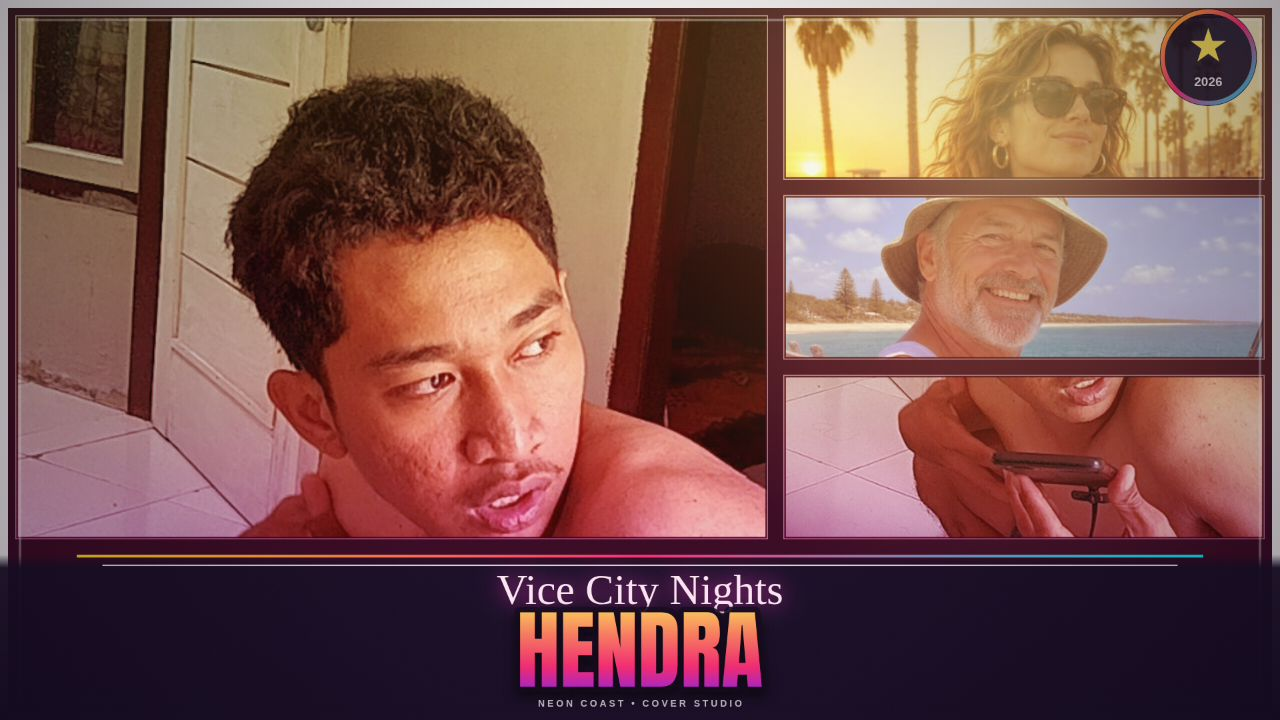
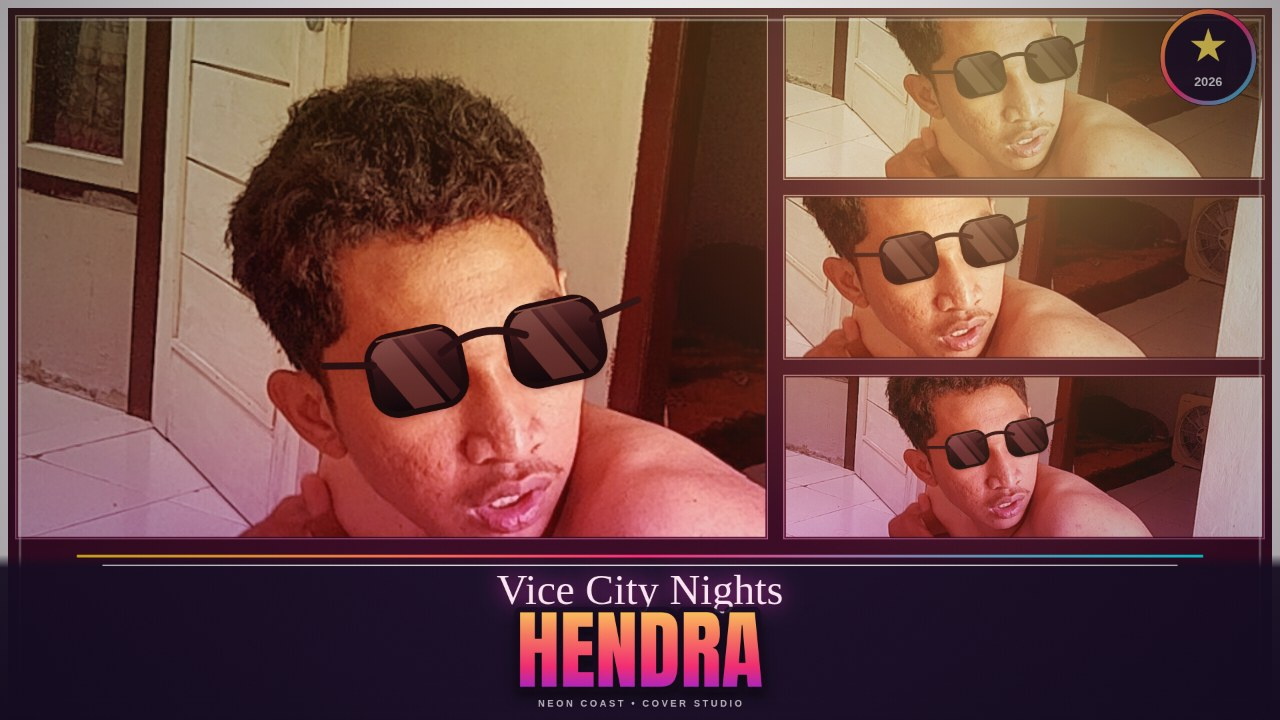
v2.1: all-Hendra panels, face-safe crops, sunglasses toggle
- Every panel is Hendra's portrait (one person, one story): the
  boulevard and pier samples no longer appear in any cover or
  screenshot; each slot has its own face-safe crop of hendra.jpg.
- Bottom strip re-cropped so his whole face shows (eyes, nose,
  mouth, chin) instead of a cut chin-and-phone close-up.
- Sunglasses: black shades drawn in the renderer from his measured
  eye points (right eye 352,1072; left eye 465,1048 in the 921x2048
  portrait), with gradient lenses, a diagonal shine, bridge bar and
  temple arms; a toggle in the editor (default ON for the Hendra
  sample) and a shades= query flag for shots. Only ever drawn on
  Hendra's own photo.
- Tilt panels re-cropped so the fanned overlap no longer slices his
  face, and the wide body crop no longer shows the photo's black
  letterbox bar.
- 4 new screenshots, all verified visually.

diff --git a/app/src/cover.js b/app/src/cover.js
@@ -11,6 +11,9 @@
 // shadows and a sun bloom, bigger title lettering with a hard sticker
 // shadow, a neon strip above the title band, bold panel keylines, and a
 // roundel badge — so the cover still reads at contact-sheet size.
+// v2.1: every panel is Hendra's portrait (one person, one story), each
+// with a face-safe crop, and the editor gains a sunglasses toggle that
+// draws black shades over his measured eye points.
 
 export const GRADES = {
   sunset: {
@@ -82,9 +85,11 @@ export const SIZES = [
 ];
 
 /**
- * A fresh default state: Hendra's portrait leads, the pier and boulevard
- * samples tell the story in the strips. The hero crop is tight on his
- * face and shoulders, so the cover reads as a character poster.
+ * A fresh default state: every panel is Hendra's portrait, each with its
+ * own crop, so the cover is one person, one story — no other faces. The
+ * hero crop is tight on his face and shoulders, so the cover reads as a
+ * character poster. `shades` draws black sunglasses over his eyes (see
+ * HENDRA_EYES below); it is on by default for the Hendra sample.
  */
 export function defaultState() {
   return {
@@ -92,12 +97,13 @@ export function defaultState() {
     grade: 'sunset',
     title: 'HENDRA',
     subtitle: 'Vice City Nights',
+    shades: true,
     photos: [], // HTMLImageElement[], filled by main.js
     panels: [
-      { photo: 0, zoom: 1.5, ox: 0.21, oy: 0.5 },
-      { photo: 2, zoom: 1, ox: 0, oy: -0.1 },
-      { photo: 1, zoom: 1.1, ox: 0, oy: 1.26 },
-      { photo: 0, zoom: 1.6, ox: 0.1, oy: -1.07 },
+      { photo: 0, zoom: 1.5, ox: 0.21, oy: 0.08 },
+      { photo: 0, zoom: 1.2, ox: 0.05, oy: -0.30 },
+      { photo: 0, zoom: 1.35, ox: -0.08, oy: -0.30 },
+      { photo: 0, zoom: 1.0, ox: 0, oy: -0.18 },
     ],
   };
 }
@@ -185,6 +191,125 @@ function drawPhotoInto(ctx, img, rect, zoom, ox, oy) {
   const cx = rect.x + rect.w / 2 + ox * rect.w;
   const cy = rect.y + rect.h / 2 + oy * rect.h;
   ctx.drawImage(img, cx - pw / 2, cy - ph / 2, pw, ph);
+}
+
+// Hendra's eyes in his portrait (app/samples/hendra.jpg, 921x2048),
+// measured on a 20px grid over the eye band: his right eye (352, 1072),
+// his left eye (465, 1048). The sunglasses are drawn from these points,
+// so they sit on the eyes in every panel crop; they are only ever drawn
+// on Hendra's own photo, never on another person's picture.
+const HENDRA_EYES = {
+  left: { x: 352 / 921, y: 1072 / 2048 },
+  right: { x: 465 / 921, y: 1048 / 2048 },
+};
+
+/** A rounded-rectangle path (no roundRect dependency). */
+function rrectPath(ctx, x, y, w, h, r) {
+  ctx.beginPath();
+  ctx.moveTo(x + r, y);
+  ctx.arcTo(x + w, y, x + w, y + h, r);
+  ctx.arcTo(x + w, y + h, x, y + h, r);
+  ctx.arcTo(x, y + h, x, y, r);
+  ctx.arcTo(x, y, x + w, y, r);
+  ctx.closePath();
+}
+
+/**
+ * Black sunglasses over Hendra's eyes, drawn in the panel's own
+ * coordinates (after the photo, before the grade wash, so the grade tints
+ * them like the rest of the poster). Geometry is in units of the distance
+ * between the eyes, so the glasses scale with any panel crop: two dark
+ * gradient lenses with a diagonal highlight, a bridge bar, and short
+ * temple arms toward the ears. Skipped when the eyes would be under 24px
+ * apart — too small to read as glasses.
+ */
+function drawShades(ctx, img, rect, zoom, ox, oy) {
+  const scale = Math.max(rect.w / img.naturalWidth, rect.h / img.naturalHeight) * zoom;
+  const pw = img.naturalWidth * scale;
+  const ph = img.naturalHeight * scale;
+  const at = (f) => ({
+    x: rect.x + rect.w / 2 + ox * rect.w + (f.x - 0.5) * pw,
+    y: rect.y + rect.h / 2 + oy * rect.h + (f.y - 0.5) * ph,
+  });
+  const L = at(HENDRA_EYES.left);
+  const R = at(HENDRA_EYES.right);
+  const dx = R.x - L.x;
+  const dy = R.y - L.y;
+  const D = Math.hypot(dx, dy);
+  if (D < 24) return;
+  const ang = Math.atan2(dy, dx);
+  const mx = (L.x + R.x) / 2;
+  const my = (L.y + R.y) / 2;
+  const lw = D * 0.66; // lens width
+  const lh = D * 0.56; // lens height
+  const lift = D * 0.05; // lenses sit a touch above the eye line
+
+  ctx.save();
+  ctx.translate(mx, my - lift);
+  ctx.rotate(ang);
+
+  const lens = (cx) => {
+    const x0 = cx - lw / 2;
+    const y0 = -lh / 2;
+    const r = lh * 0.32;
+    rrectPath(ctx, x0, y0, lw, lh, r);
+    const g = ctx.createLinearGradient(0, y0, 0, y0 + lh);
+    g.addColorStop(0, '#2b2b38');
+    g.addColorStop(0.45, '#0c0c14');
+    g.addColorStop(1, '#000005');
+    ctx.save();
+    ctx.shadowColor = 'rgba(0,0,0,0.4)';
+    ctx.shadowBlur = D * 0.05;
+    ctx.shadowOffsetY = D * 0.03;
+    ctx.fillStyle = g;
+    ctx.fill();
+    ctx.restore();
+    // Diagonal shine across the upper lens, clipped to its shape.
+    ctx.save();
+    rrectPath(ctx, x0, y0, lw, lh, r);
+    ctx.clip();
+    ctx.translate(cx, 0);
+    ctx.rotate(-0.5);
+    ctx.fillStyle = 'rgba(255,255,255,0.16)';
+    ctx.fillRect(-lw * 0.28, -lh * 1.2, lw * 0.30, lh * 2.4);
+    ctx.fillStyle = 'rgba(255,255,255,0.07)';
+    ctx.fillRect(lw * 0.08, -lh * 1.2, lw * 0.14, lh * 2.4);
+    ctx.restore();
+    // Dark frame around the lens, with a faint lit top edge.
+    rrectPath(ctx, x0, y0, lw, lh, r);
+    ctx.strokeStyle = '#05050a';
+    ctx.lineWidth = D * 0.045;
+    ctx.stroke();
+    ctx.beginPath();
+    ctx.moveTo(x0 + r * 0.5, y0 + ctx.lineWidth * 0.4);
+    ctx.lineTo(x0 + lw - r * 0.5, y0 + ctx.lineWidth * 0.4);
+    ctx.strokeStyle = 'rgba(255,255,255,0.28)';
+    ctx.lineWidth = D * 0.012;
+    ctx.stroke();
+  };
+
+  // Lenses first, then the bridge and temples over their inner edges.
+  lens(-D / 2);
+  lens(D / 2);
+  // Bridge: a bar arched slightly upward between the inner lens tops.
+  ctx.beginPath();
+  ctx.moveTo(-D / 2 + lw * 0.30, -lh * 0.16);
+  ctx.quadraticCurveTo(0, -lh * 0.46, D / 2 - lw * 0.30, -lh * 0.16);
+  ctx.strokeStyle = '#0a0a12';
+  ctx.lineWidth = D * 0.055;
+  ctx.lineCap = 'round';
+  ctx.stroke();
+  // Temples: short arms from the outer lens tops toward the ears.
+  ctx.beginPath();
+  ctx.moveTo(-D / 2 - lw / 2 + D * 0.04, -lh * 0.18);
+  ctx.lineTo(-D / 2 - lw / 2 - D * 0.30, -lh * 0.30);
+  ctx.moveTo(D / 2 + lw / 2 - D * 0.04, -lh * 0.18);
+  ctx.lineTo(D / 2 + lw / 2 + D * 0.30, -lh * 0.30);
+  ctx.strokeStyle = '#0a0a12';
+  ctx.lineWidth = D * 0.05;
+  ctx.lineCap = 'round';
+  ctx.stroke();
+  ctx.restore();
 }
 
 /** One grade overlay pass: a gradient fill under a composite mode. */
@@ -296,6 +421,12 @@ export function drawCover(canvas, state) {
       ctx.font = `600 ${Math.max(12, Math.round(r.w * 0.05))}px sans-serif`;
       ctx.textAlign = 'center';
       ctx.fillText('ADD A PHOTO', r.w / 2, r.h / 2);
+    }
+    // Sunglasses over Hendra's eyes, only on his own photo and only
+    // while the toggle is on; the grade wash below tints them with the
+    // rest of the poster.
+    if (img && state.shades !== false && img._photoName === 'hendra') {
+      drawShades(ctx, img, { x: 0, y: 0, w: r.w, h: r.h }, slot.zoom, slot.ox, slot.oy);
     }
     // Crisp comic-book keyline: a dark edge plus a thin white inner line,
     // so panels separate hard even under a strong grade.

diff --git a/app/src/main.js b/app/src/main.js
@@ -48,7 +48,7 @@ function syncPickers() {
   mark('sizes', SIZES.indexOf(exportSize));
 }
 
-/** Keep the panel sliders and the selected-slot highlight in sync. */
+/** Keep the panel sliders, the shades toggle and the selected-slot highlight in sync. */
 function syncControls() {
   const slot = state.panels[selected] ?? { zoom: 1, ox: 0, oy: 0 };
   const zoom = document.getElementById('zoom');
@@ -57,6 +57,8 @@ function syncControls() {
   if (zoom) zoom.value = slot.zoom;
   if (ox) ox.value = slot.ox;
   if (oy) oy.value = slot.oy;
+  const shades = document.getElementById('shades');
+  if (shades) shades.checked = state.shades !== false;
   const label = document.getElementById('panel-label');
   if (label) label.textContent = `Panel ${selected + 1} of ${slotCount(state.layout)}`;
   document.querySelectorAll('#thumbs button').forEach((btn, i) => {
@@ -130,6 +132,14 @@ document.getElementById('title').addEventListener('input', (e) => {
 });
 document.getElementById('subtitle').addEventListener('input', (e) => {
   state.subtitle = e.target.value;
+  redraw();
+});
+
+// Sunglasses toggle: black shades over Hendra's eyes (his measured eye
+// points live in cover.js). It only ever draws on the Hendra sample —
+// other photos carry no eye data, so they stay untouched.
+document.getElementById('shades').addEventListener('change', (e) => {
+  state.shades = e.target.checked;
   redraw();
 });
 
@@ -219,19 +229,25 @@ const dropzone = document.getElementById('dropzone');
 dropzone.addEventListener('drop', (e) => addFiles(e.dataTransfer.files));
 
 document.getElementById('sample-hendra').addEventListener('click', async () => {
-  state.photos.push(await loadImage('samples/hendra.jpg'));
+  const img = await loadImage('samples/hendra.jpg');
+  img._photoName = 'hendra';
+  state.photos.push(img);
   state.panels[selected].photo = state.photos.length - 1;
   refreshThumbs();
   redraw();
 });
 document.getElementById('sample-boulevard').addEventListener('click', async () => {
-  state.photos.push(await loadImage('samples/boulevard.jpg'));
+  const img = await loadImage('samples/boulevard.jpg');
+  img._photoName = 'boulevard';
+  state.photos.push(img);
   state.panels[selected].photo = state.photos.length - 1;
   refreshThumbs();
   redraw();
 });
 document.getElementById('sample-pier').addEventListener('click', async () => {
-  state.photos.push(await loadImage('samples/pier.jpg'));
+  const img = await loadImage('samples/pier.jpg');
+  img._photoName = 'pier';
+  state.photos.push(img);
   state.panels[selected].photo = state.photos.length - 1;
   refreshThumbs();
   redraw();
@@ -291,9 +307,13 @@ document.getElementById('export-all').addEventListener('click', async () => {
 async function boot() {
   try {
     // Hendra's portrait leads: it is the cover's hero photo by default.
-    state.photos.push(await loadImage('samples/hendra.jpg'));
-    state.photos.push(await loadImage('samples/boulevard.jpg'));
-    state.photos.push(await loadImage('samples/pier.jpg'));
+    // Each sample is tagged with its name, so the renderer knows which
+    // photo is Hendra's (the only one that ever gets sunglasses).
+    for (const name of ['hendra', 'boulevard', 'pier']) {
+      const img = await loadImage(`samples/${name}.jpg`);
+      img._photoName = name;
+      state.photos.push(img);
+    }
   } catch {
     status.textContent = 'Sample photos could not be loaded — add your own photo to begin.';
   }
@@ -302,17 +322,22 @@ async function boot() {
   const query = new URLSearchParams(location.search);
   const shot = query.get('shot');
   if (shot) {
-    await runShot(shot, query, async ({ title, subtitle, layout, grade, sizeW, sizeH, slots }) => {
+    await runShot(shot, query, async ({ title, subtitle, layout, grade, sizeW, sizeH, slots, shades }) => {
       state.layout = layout;
       state.grade = grade;
       state.title = title;
       state.subtitle = subtitle;
+      state.shades = shades;
       // Each slot names its own photo, so a cover can mix a hero portrait
       // with story panels instead of repeating one frame: load every
       // distinct photo the slots name, in first-use order.
       const byName = new Map();
       for (const slot of slots) {
-        if (!byName.has(slot.photo)) byName.set(slot.photo, await loadImage(`samples/${slot.photo}.jpg`));
+        if (!byName.has(slot.photo)) {
+          const img = await loadImage(`samples/${slot.photo}.jpg`);
+          img._photoName = slot.photo;
+          byName.set(slot.photo, img);
+        }
       }
       state.photos = [...byName.values()];
       const indexOf = (name) => [...byName.keys()].indexOf(name);

diff --git a/app/src/shots.js b/app/src/shots.js
@@ -17,13 +17,14 @@
 import { GRADES, LAYOUTS } from './cover.js';
 
 // The v1 single-photo crops, kept as the fallback when a shot names no
-// per-slot crop: each slot gets a different crop of the one photo, so a
-// multi-panel layout reads as a poster instead of the same frame repeated.
+// per-slot crop: each slot gets a different face-safe crop of Hendra's
+// portrait, so a multi-panel layout reads as a poster instead of the
+// same frame repeated, and no crop ever cuts his face at the mouth.
 const FALLBACK_CROPS = [
-  { zoom: 1, ox: 0, oy: 0 },
-  { zoom: 1.4, ox: 0, oy: 0.18 },
-  { zoom: 1.3, ox: 0.1, oy: -0.12 },
-  { zoom: 1.8, ox: -0.1, oy: 0 },
+  { zoom: 1.5, ox: 0.21, oy: 0.08 },
+  { zoom: 1.2, ox: 0.05, oy: -0.30 },
+  { zoom: 1.35, ox: -0.08, oy: -0.30 },
+  { zoom: 1.0, ox: 0, oy: -0.18 },
 ];
 
 export async function runShot(shot, query, setup) {
@@ -32,6 +33,7 @@ export async function runShot(shot, query, setup) {
   const subtitle = query.get('subtitle') ?? 'Vice City Nights';
   const layout = LAYOUTS[query.get('layout')] ? query.get('layout') : 'hero';
   const grade = GRADES[query.get('grade')] ? query.get('grade') : 'sunset';
+  const shades = query.get('shades') !== '0';
   const size = (query.get('size') ?? '').split('x');
   const sizeW = Number(size[0]) || 0;
   const sizeH = Number(size[1]) || 0;
@@ -50,7 +52,7 @@ export async function runShot(shot, query, setup) {
   });
 
   if (shot === 'cover') document.body.classList.add('shot-cover');
-  await setup({ photo, title, subtitle, layout, grade, sizeW, sizeH, slots });
+  await setup({ photo, title, subtitle, layout, grade, sizeW, sizeH, slots, shades });
 
   // Wait for the vendored fonts: the title must render in Anton/Pacifico,
   // not in a fallback, before the screenshot is taken.

diff --git a/main.ts b/main.ts
@@ -1,8 +1,10 @@
 // Vice Cover Studio — a gta6-cover-art-01 entry (Node 22, standard library
 // only). v2: the hero sample is Hendra's portrait (used with his
-// permission), the grades are stronger, and the lettering is bolder —
-// see app/src/cover.js. The app is this directory's app/ folder: plain
-// static files a desktop browser loads offline (app/index.html and its ES
+// permission), the grades are stronger, and the lettering is bolder.
+// v2.1: every panel is Hendra's portrait (one person, one story), each
+// with a face-safe crop, and the editor gains a sunglasses toggle that
+// draws black shades over his measured eye points — see app/src/cover.js.
+// The app is this directory's app/ folder: plain static files a desktop
 // modules, the Anton and Pacifico fonts vendored under the OFL, no library,
 // no network request). The program hands it in: it copies app/ and
 // screenshots/ from beside this file to /output and writes

diff --git a/app/style.css b/app/style.css
@@ -63,6 +63,8 @@ header p { margin: 8px 0 0; color: #b9aecb; }
 
 label { display: flex; flex-direction: column; gap: 6px; font-weight: 600; font-size: 13px; }
 label + label { margin-top: 10px; }
+label.check { flex-direction: row; align-items: center; gap: 8px; cursor: pointer; }
+label.check input { accent-color: #ff2975; width: 16px; height: 16px; }
 input[type=text] {
   font: inherit;
   padding: 9px 10px;

diff --git a/app/index.html b/app/index.html
@@ -31,6 +31,7 @@
       </div>
       <div id="thumbs" class="thumbs" aria-label="Loaded photos"></div>
       <p class="hint">Click a panel on the cover, then a thumbnail, to place that photo there.</p>
+      <label class="check"><input id="shades" type="checkbox" checked> Sunglasses on the Hendra sample</label>
     </section>
 
     <section class="group">
